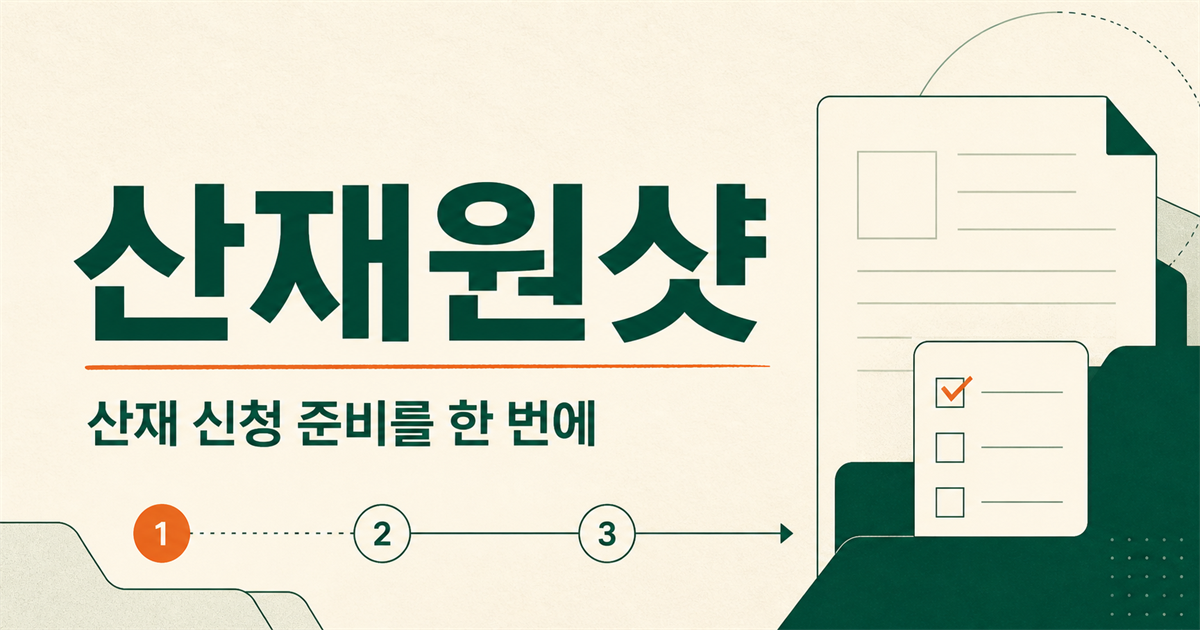
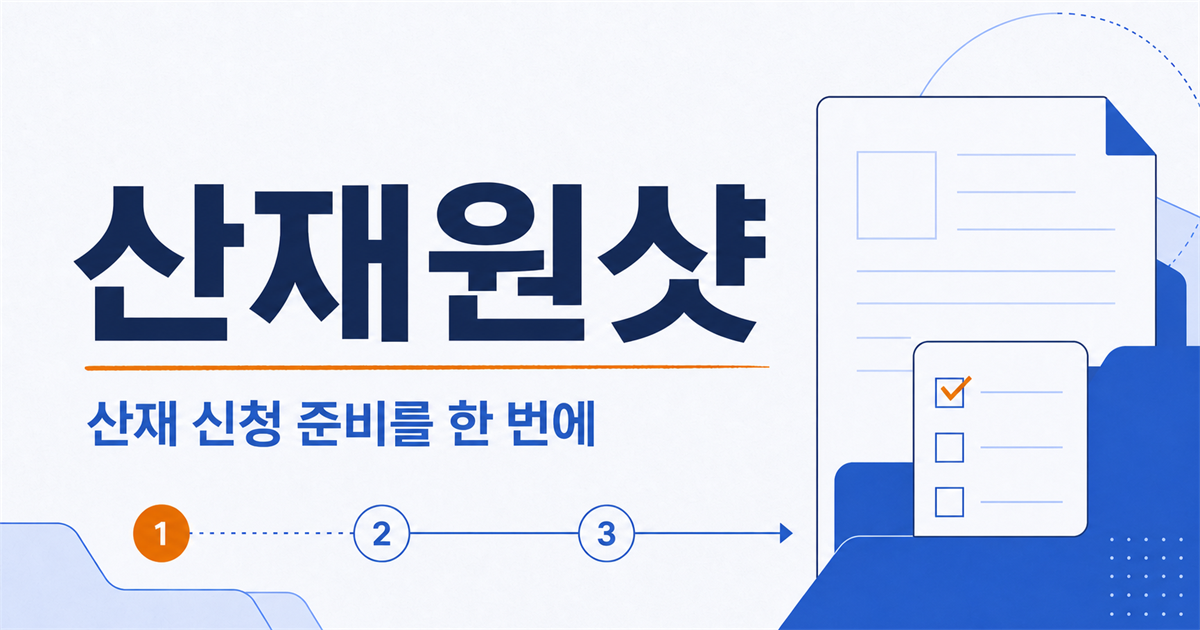
Refresh social preview colors

diff --git a/docs/index.html b/docs/index.html
@@ -17,7 +17,7 @@
     />
     <meta
       property="og:image"
-      content="https://kimchaejun.github.io/Sanjae-Oneshot-Page/og.png"
+      content="https://kimchaejun.github.io/Sanjae-Oneshot-Page/og.png?v=brand-blue-20260824"
     />
     <meta name="twitter:card" content="summary_large_image" />
     <meta name="twitter:title" content="산재원샷 | 산업재해 신청 준비 지원 서비스" />
@@ -27,7 +27,7 @@
     />
     <meta
       name="twitter:image"
-      content="https://kimchaejun.github.io/Sanjae-Oneshot-Page/og.png"
+      content="https://kimchaejun.github.io/Sanjae-Oneshot-Page/og.png?v=brand-blue-20260824"
     />
     <link rel="icon" href="./assets/sanjae-symbol.svg" type="image/svg+xml" />
     <link rel="stylesheet" href="./styles.css?v=mobile-detail-wrap" />
